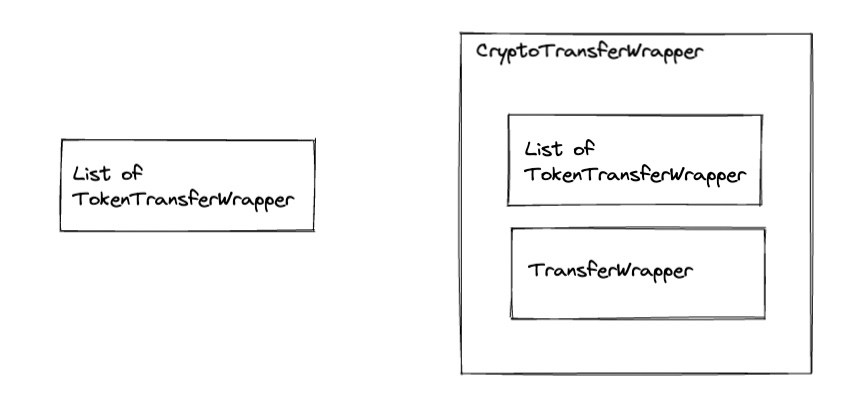
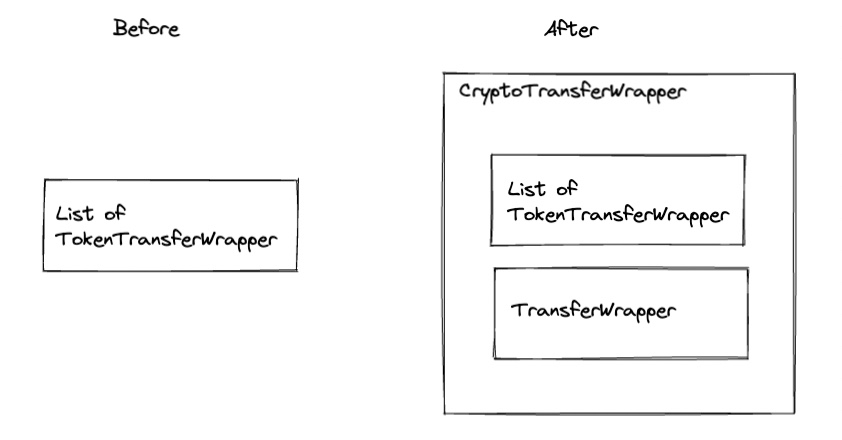
clarify image

Changed region(s): [[0.5249, 0.0293, 0.9572, 0.9682], [0.0309, 0.3227, 0.3705, 0.6455], [0.1235, 0.0293, 0.2162, 0.088]]

diff --git a/docs/design/crypto-transfer.md b/docs/design/crypto-transfer.md
@@ -59,11 +59,12 @@ This creates a breaking change in the  `cryptoTransfer`  function hash since the
 `cryptoTransfer(TransferList, TokenTransferList[])`
 
 ### Hedera Services Changes
-Currently, the `TransferPrecompile` class decodes and operates on a list of `TokenTransferWrapper` instances.  In order to additionally support transfers of hbars with minimal disruption, create new wrapper classes TransferWrapper and `CryptoTransferWrapper` as shown.
+Currently, the `TransferPrecompile` class decodes and operates on a list of `TokenTransferWrapper` instances.  In order to additionally support transfers of hbars with minimal disruption, create new wrapper classes `TransferWrapper` and `CryptoTransferWrapper` as shown.
 
 ![Crypto Transfer Wrappers](images/crypto_wrappers.png)
 
-Fees and change operations will be modified to use the data in the CryptoTransferWrapper.
+
+Fees and change operations will be modified to be derived from the data in the CryptoTransferWrapper.
 
 ## Acceptance Tests
 
